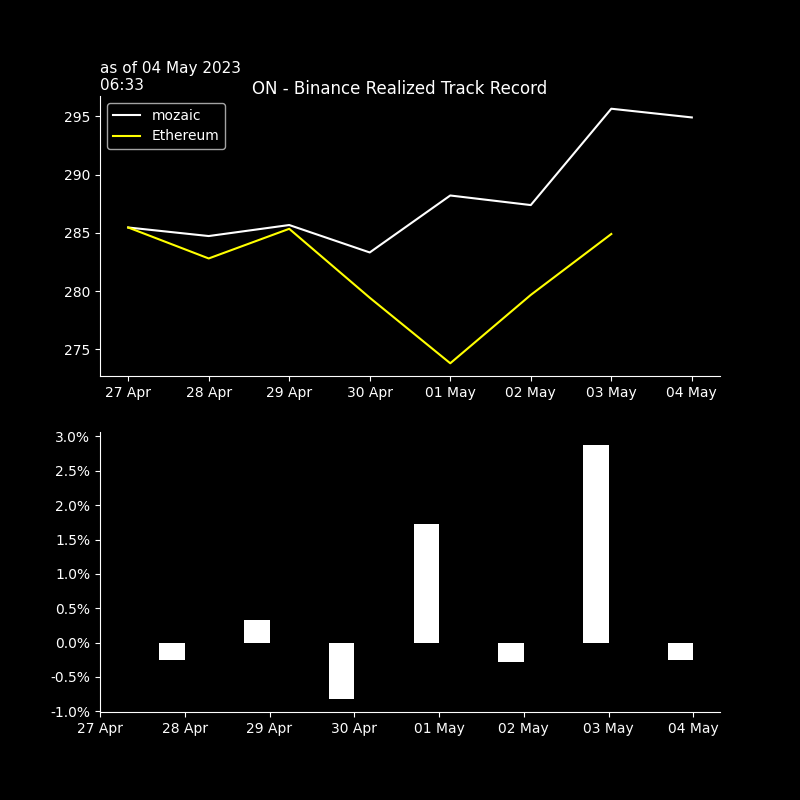
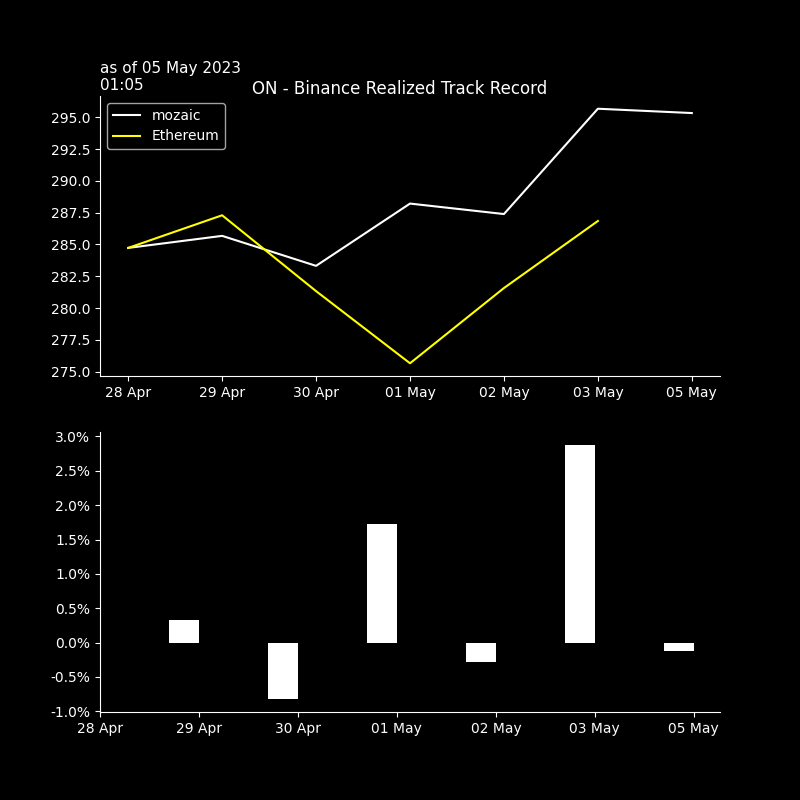
seb_commit

diff --git a/crypto/graphs/bt_trades_book.htmltrade_trades_book.html b/crypto/graphs/bt_trades_book.htmltrade_trades_book.html
@@ -37,55 +37,55 @@
   </thead>
   <tbody>
     <tr>
-      <th>BTCUSDT</th>
-      <td>28836.7000</td>
-      <td>2023-05-04 20:04:39.333333248</td>
-      <td>0.005</td>
-      <td>$144.2</td>
-      <td>$0.03</td>
+      <th>XRPUSDT</th>
+      <td>0.4604</td>
+      <td>2023-05-05 00:05:26</td>
+      <td>-401.500</td>
+      <td>$-184.9</td>
+      <td>$0.04</td>
       <td>2.0</td>
-      <td>0.0</td>
-      <td>28845.15000</td>
-      <td>2023-05-04 21:01</td>
-      <td>0.0</td>
-      <td>3.0</td>
-      <td>28830.1</td>
+      <td>0.5</td>
+      <td>0.46055</td>
+      <td>2023-05-05 01:01</td>
+      <td>-0.1</td>
+      <td>-3.0</td>
+      <td>.4605</td>
       <td>-0.0</td>
       <td>-2.0</td>
     </tr>
     <tr>
-      <th>XRPUSDT</th>
-      <td>0.4589</td>
-      <td>2023-05-04 20:06:09.000000000</td>
-      <td>321.500</td>
-      <td>$147.5</td>
-      <td>$0.03</td>
+      <th>BTCUSDT</th>
+      <td>28830.3000</td>
+      <td>2023-05-05 00:03:33</td>
+      <td>-0.006</td>
+      <td>$-173.0</td>
+      <td>$0.04</td>
       <td>2.0</td>
+      <td>-0.0</td>
+      <td>28824.55000</td>
+      <td>2023-05-05 01:01</td>
       <td>0.0</td>
-      <td>0.45875</td>
-      <td>2023-05-04 21:01</td>
-      <td>-0.1</td>
-      <td>-3.0</td>
-      <td>.4589</td>
-      <td>-0.0</td>
-      <td>-0.0</td>
+      <td>2.0</td>
+      <td>28823.4</td>
+      <td>0.0</td>
+      <td>2.0</td>
     </tr>
     <tr>
       <th>ETHUSDT</th>
-      <td>1873.4700</td>
-      <td>2023-05-04 20:04:22.000000000</td>
-      <td>0.079</td>
-      <td>$148.0</td>
+      <td>1875.6500</td>
+      <td>2023-05-05 00:05:26</td>
+      <td>-0.079</td>
+      <td>$-148.2</td>
       <td>$0.03</td>
       <td>2.0</td>
-      <td>0.0</td>
-      <td>1873.67500</td>
-      <td>2023-05-04 21:01</td>
-      <td>0.0</td>
-      <td>1.0</td>
-      <td>1873.52</td>
-      <td>0.0</td>
-      <td>0.0</td>
+      <td>0.2</td>
+      <td>1875.71500</td>
+      <td>2023-05-05 01:01</td>
+      <td>-0.0</td>
+      <td>-1.0</td>
+      <td>1875.79</td>
+      <td>-0.0</td>
+      <td>-1.0</td>
     </tr>
   </tbody>
 </table>

diff --git a/crypto/graphs/bt_trades_recap.htmltrade_trades_recap.html b/crypto/graphs/bt_trades_recap.htmltrade_trades_recap.html
@@ -9,32 +9,32 @@
   <tbody>
     <tr>
       <th>as of</th>
-      <td>04May 20:04&gt;&gt;20:06</td>
+      <td>05May 00:03&gt;&gt;00:05</td>
       <td>#trades: 3</td>
     </tr>
     <tr>
       <th>trade net</th>
-      <td>+440.0</td>
-      <td>+149.2%</td>
+      <td>-506.0</td>
+      <td>-171.3%</td>
     </tr>
     <tr>
       <th>trade gross</th>
-      <td>+440.0</td>
-      <td>+149.2%</td>
+      <td>+506.0</td>
+      <td>+171.3%</td>
     </tr>
     <tr>
       <th>BUY</th>
-      <td>+440.0</td>
-      <td>+149.2%</td>
-    </tr>
-    <tr>
-      <th>SELL</th>
       <td>+0.0</td>
       <td>+0.0%</td>
     </tr>
     <tr>
+      <th>SELL</th>
+      <td>-506.0</td>
+      <td>-171.3%</td>
+    </tr>
+    <tr>
       <th>fees</th>
-      <td>$ 0.088</td>
+      <td>$ 0.101</td>
       <td>2.0bp</td>
     </tr>
   </tbody>

diff --git a/crypto/graphs/bt_trades_pnlD_recap.htmltrade_trades_pnlD_recap.html b/crypto/graphs/bt_trades_pnlD_recap.htmltrade_trades_pnlD_recap.html
@@ -1,7 +1,7 @@
 <table border="1" class="dataframe">
   <thead>
     <tr style="text-align: right;">
-      <th>04 May 21:06</th>
+      <th>05 May 01:05</th>
       <th>realizedPnl</th>
       <th>PnLvsArrival</th>
       <th>PnLvsLast</th>
@@ -10,21 +10,21 @@
   <tbody>
     <tr>
       <th>in$</th>
-      <td>0.0</td>
-      <td>0.0</td>
+      <td>0.6</td>
+      <td>-0.0</td>
       <td>-0.0</td>
     </tr>
     <tr>
-      <th>in bp 439 traded</th>
-      <td>0 bp</td>
-      <td>0 bp</td>
+      <th>in bp 506 traded</th>
+      <td>12 bp</td>
       <td>-1 bp</td>
+      <td>-0 bp</td>
     </tr>
     <tr>
-      <th>in bp 294 AUMs</th>
-      <td>0 bp</td>
-      <td>0 bp</td>
+      <th>in bp 295 AUMs</th>
+      <td>21 bp</td>
       <td>-1 bp</td>
+      <td>-0 bp</td>
     </tr>
   </tbody>
 </table>
